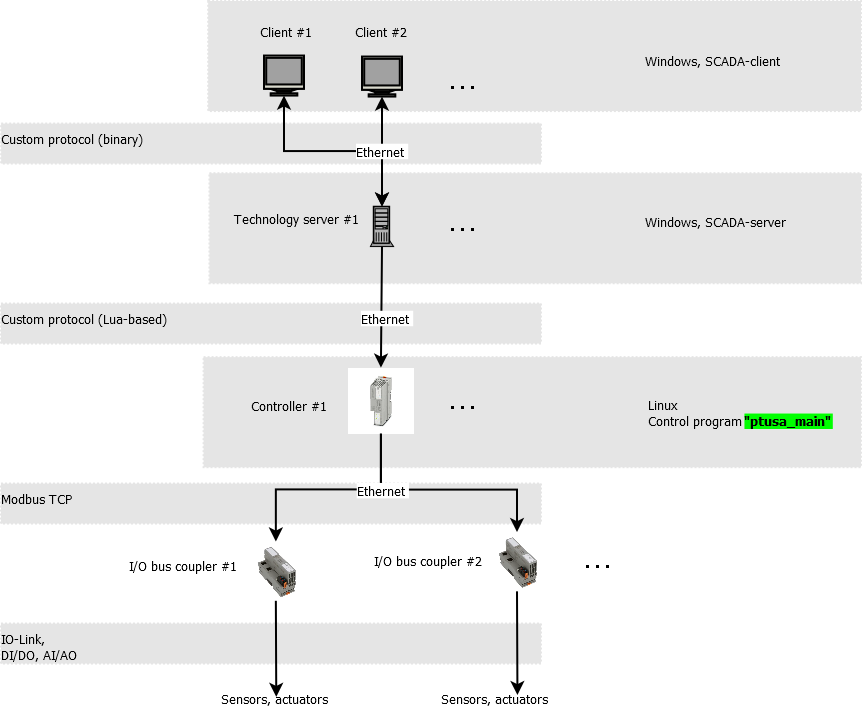
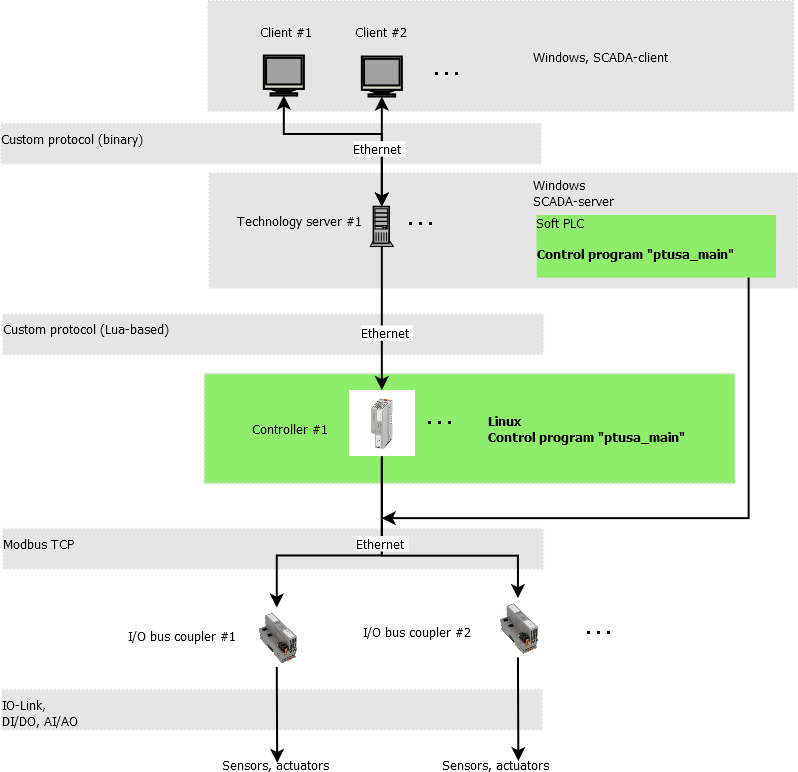
[doc] Better system architecture description (#631)

diff --git a/russian_readme/readme.md b/russian_readme/readme.md
@@ -15,10 +15,6 @@
 
 ![System architecture ](../readme_images/system_architecture_ru.png)
 
-Так же возможна следующая архитектура системы, когда управляющая программа развёрнута на сервере:
-
-![System architecture ](../readme_images/system_architecture_2_ru.png)
-
 ## Общее описание ##
 
 Управляющая логика реализуется в виде скрипта Lua. В ходе выполнения программы управление передается в отдельные специальные функции Lua, которые отвечают за отдельные этапы.

diff --git a/readme.md b/readme.md
@@ -23,10 +23,6 @@ General system architecture is shown below:
 
 <p align="center"><img src="readme_images/system_architecture_en.png"></p>
 
-General system architecture when the control program is deployed on the server:
-
-<p align="center"><img src="readme_images/system_architecture_2_en.png"></p>
-
 ## Common description ##
 
 Controller logic implemented by Lua-script. At runtime, control is passed through special Lua functions that are responsible for the various stages of the control program.
